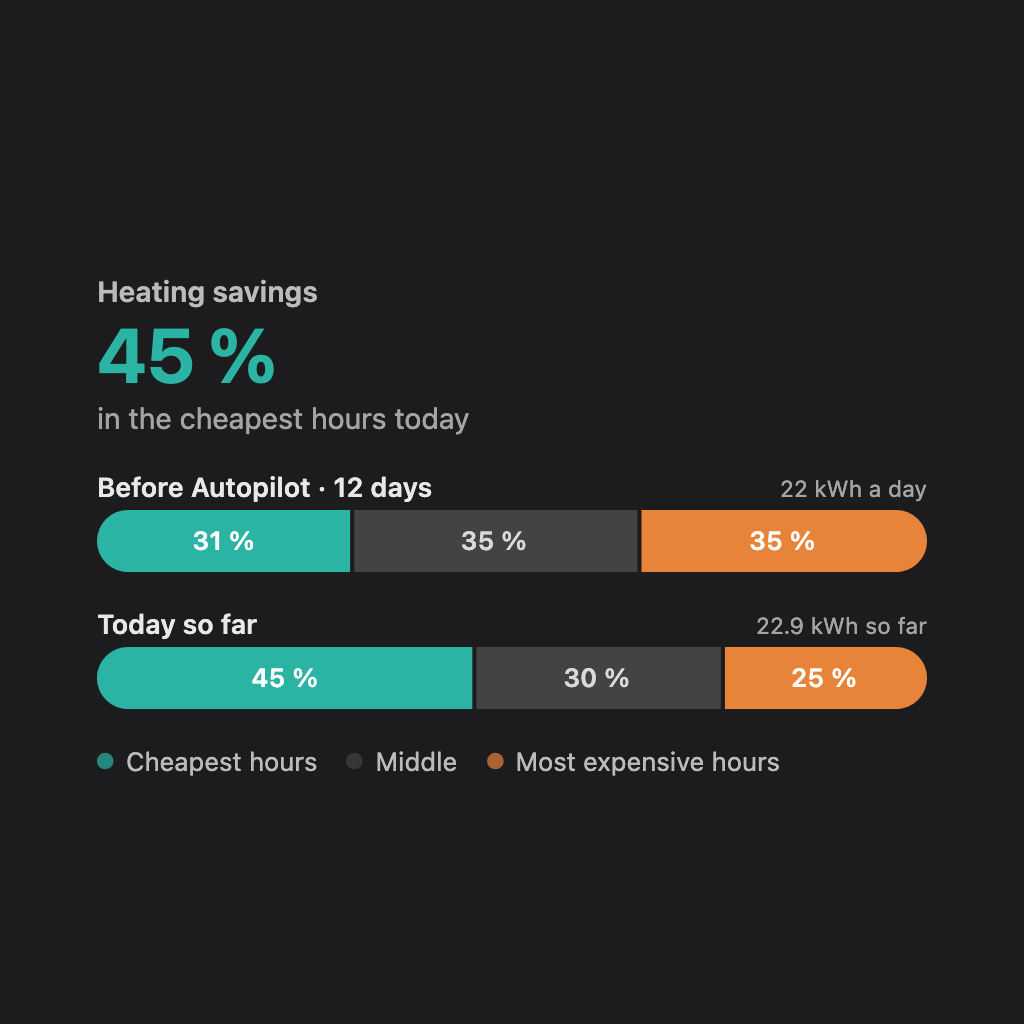
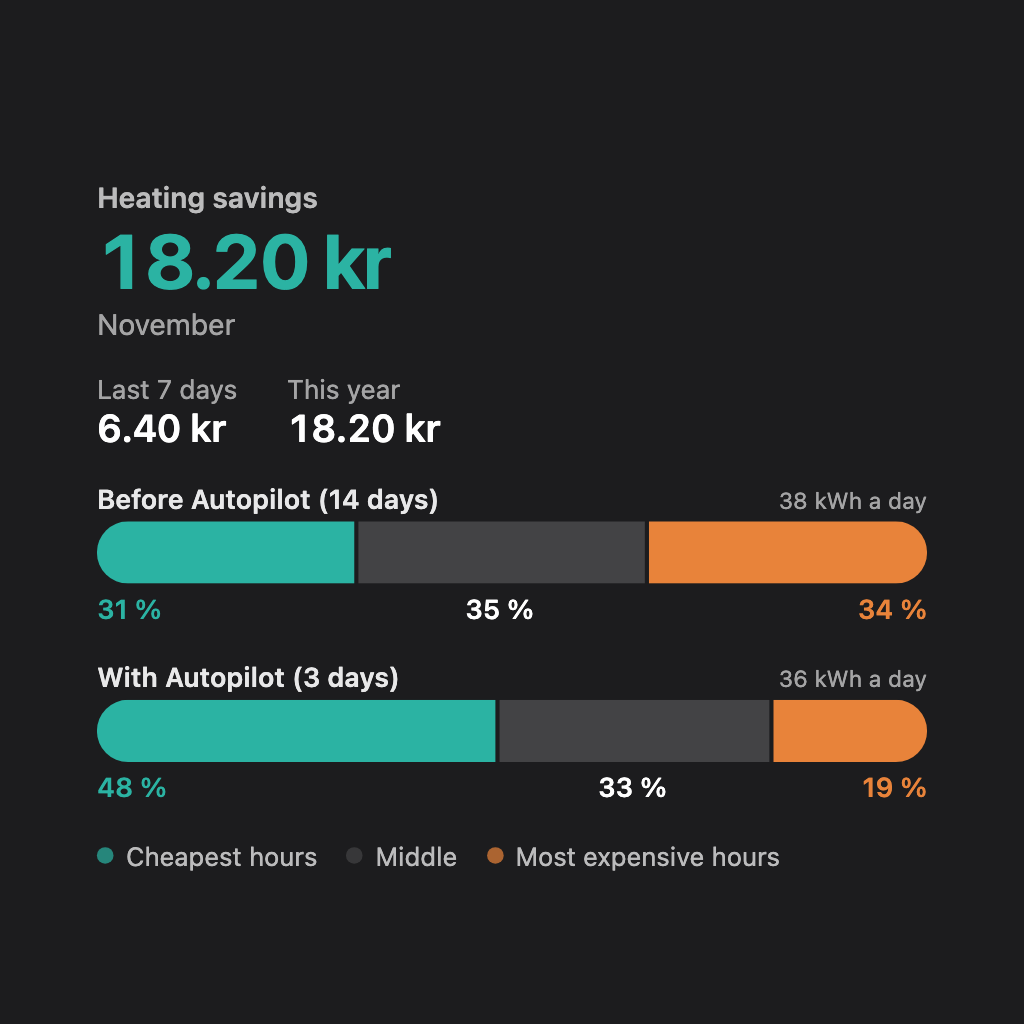
Heating savings: each share under its part of the bar, not on it

diff --git a/widgets/savings/public/index.html b/widgets/savings/public/index.html
@@ -24,6 +24,7 @@
       .sv-chart text.row-label { font-size: 13px; font-weight: 600; opacity: 0.9; }
       .sv-chart text.on-bar { fill: #ffffff; opacity: 1; font-weight: 600; font-size: 12.5px; }
       .sv-chart text.on-bar.mid { fill: currentColor; opacity: 0.8; }
+      .sv-chart text.under-bar { font-size: 13px; font-weight: 600; opacity: 1; }
       .sv-legend { display: flex; flex-wrap: wrap; gap: 4px 14px; font-size: 0.78em; opacity: 0.7; margin-top: 12px; }
       .sv-key { display: inline-block; width: 8px; height: 8px; border-radius: 50%; margin-right: 6px; vertical-align: 1px; }
       .sv-sub { margin: 16px 0 0; font-size: 0.8em; font-weight: 600; opacity: 0.6; }
@@ -155,7 +156,7 @@
       // Heating: before and with Autopilot as two bars of 100 %, split by the share of kWh in the
       // cheapest, middle and most expensive third of each day's hours, with kWh a day beside them.
       function split(rows) {
-        var W = chartWidth(), STEP = 66, BH = 30, H = rows.length * STEP - 12, svg = svgEl('svg', {viewBox: '0 0 ' + W + ' ' + H, width: W, height: H, class: 'sv-chart', role: 'img'});
+        var W = chartWidth(), STEP = 86, BH = 30, H = rows.length * STEP - 12, svg = svgEl('svg', {viewBox: '0 0 ' + W + ' ' + H, width: W, height: H, class: 'sv-chart', role: 'img'});
         rows.forEach(function (r, k) {
           var y = k * STEP + 18, x = 0, id = 'sv-clip-' + k;
           // Rounded ends on the whole bar, whatever the card colour behind it.
@@ -165,16 +166,29 @@
           var bar = svgEl('g', {'clip-path': 'url(#' + id + ')'});
           svg.appendChild(svgEl('text', {x: 0, y: y - 6, class: 'row-label'}, r.label));
           svg.appendChild(svgEl('text', {x: W, y: y - 6, 'text-anchor': 'end'}, r.perDay));
+          var parts = [];
           r.shares.forEach(function (p, i) {
             var w = W * p;
-            if (w <= 0) return;
-            var gap = x > 0 ? 2 : 0;
-            bar.appendChild(svgEl('rect', {x: x + gap, y: y, width: Math.max(0.5, w - gap), height: BH, fill: TIER[i]}));
-            var label = Math.round(p * 100) + ' %';
-            if (w > label.length * 7.5 + 10) bar.appendChild(svgEl('text', {x: x + w / 2, y: y + BH / 2 + 4.5, 'text-anchor': 'middle', class: 'on-bar' + (i === 1 ? ' mid' : '')}, label));
+            if (w > 0) {
+              var gap = x > 0 ? 2 : 0;
+              bar.appendChild(svgEl('rect', {x: x + gap, y: y, width: Math.max(0.5, w - gap), height: BH, fill: TIER[i]}));
+            }
+            parts.push({p: p, centre: x + w / 2});
             x += w;
           });
           svg.appendChild(bar);
+          // Each share under its part: the cheap one from the left edge, the expensive one to the
+          // right edge, the middle one centred under its part, kept clear of the other two.
+          var ty = y + BH + 17, CHAR = 7.4, text = function (p) { return Math.round(p * 100) + ' %'; };
+          var label = function (p, x, anchor, i) {
+            var n = svgEl('text', {x: x, y: ty, 'text-anchor': anchor, class: 'under-bar'}, text(p));
+            if (i !== 1) n.style.fill = TIER[i];
+            svg.appendChild(n);
+          };
+          label(parts[0].p, 0, 'start', 0);
+          label(parts[2].p, W, 'end', 2);
+          var mw = text(parts[1].p).length * CHAR, lo = text(parts[0].p).length * CHAR + 12, hi = W - text(parts[2].p).length * CHAR - 12;
+          if (parts[1].p > 0 && hi - lo >= mw) label(parts[1].p, Math.min(hi - mw / 2, Math.max(lo + mw / 2, parts[1].centre)), 'middle', 1);
         });
         return svg;
       }
